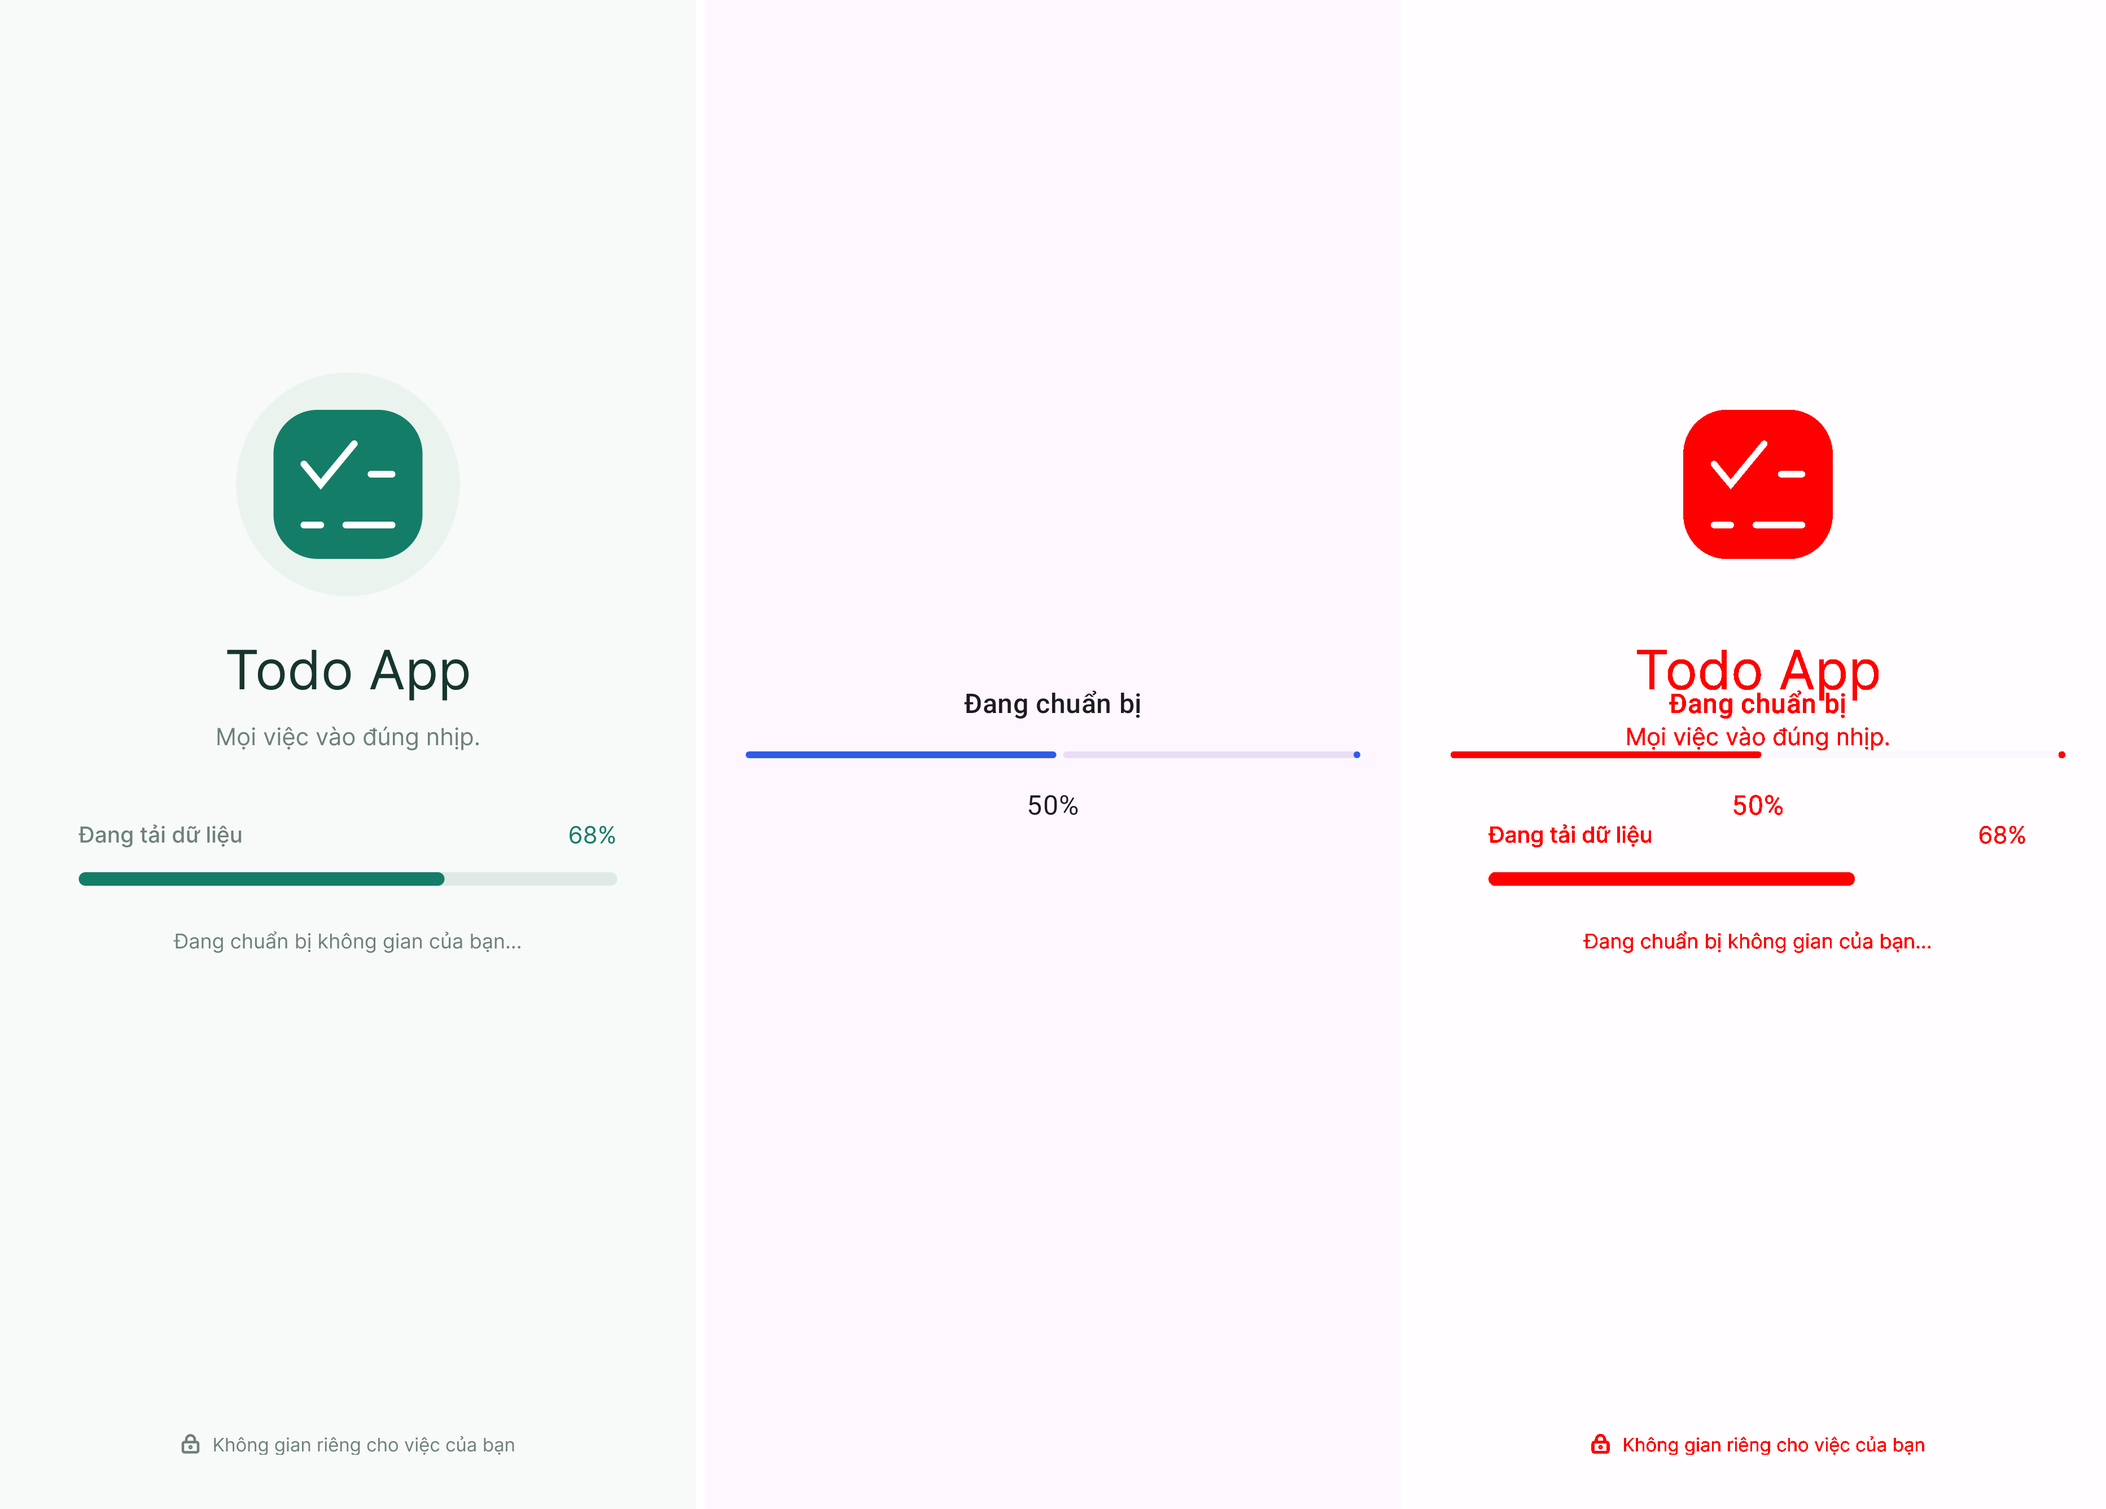
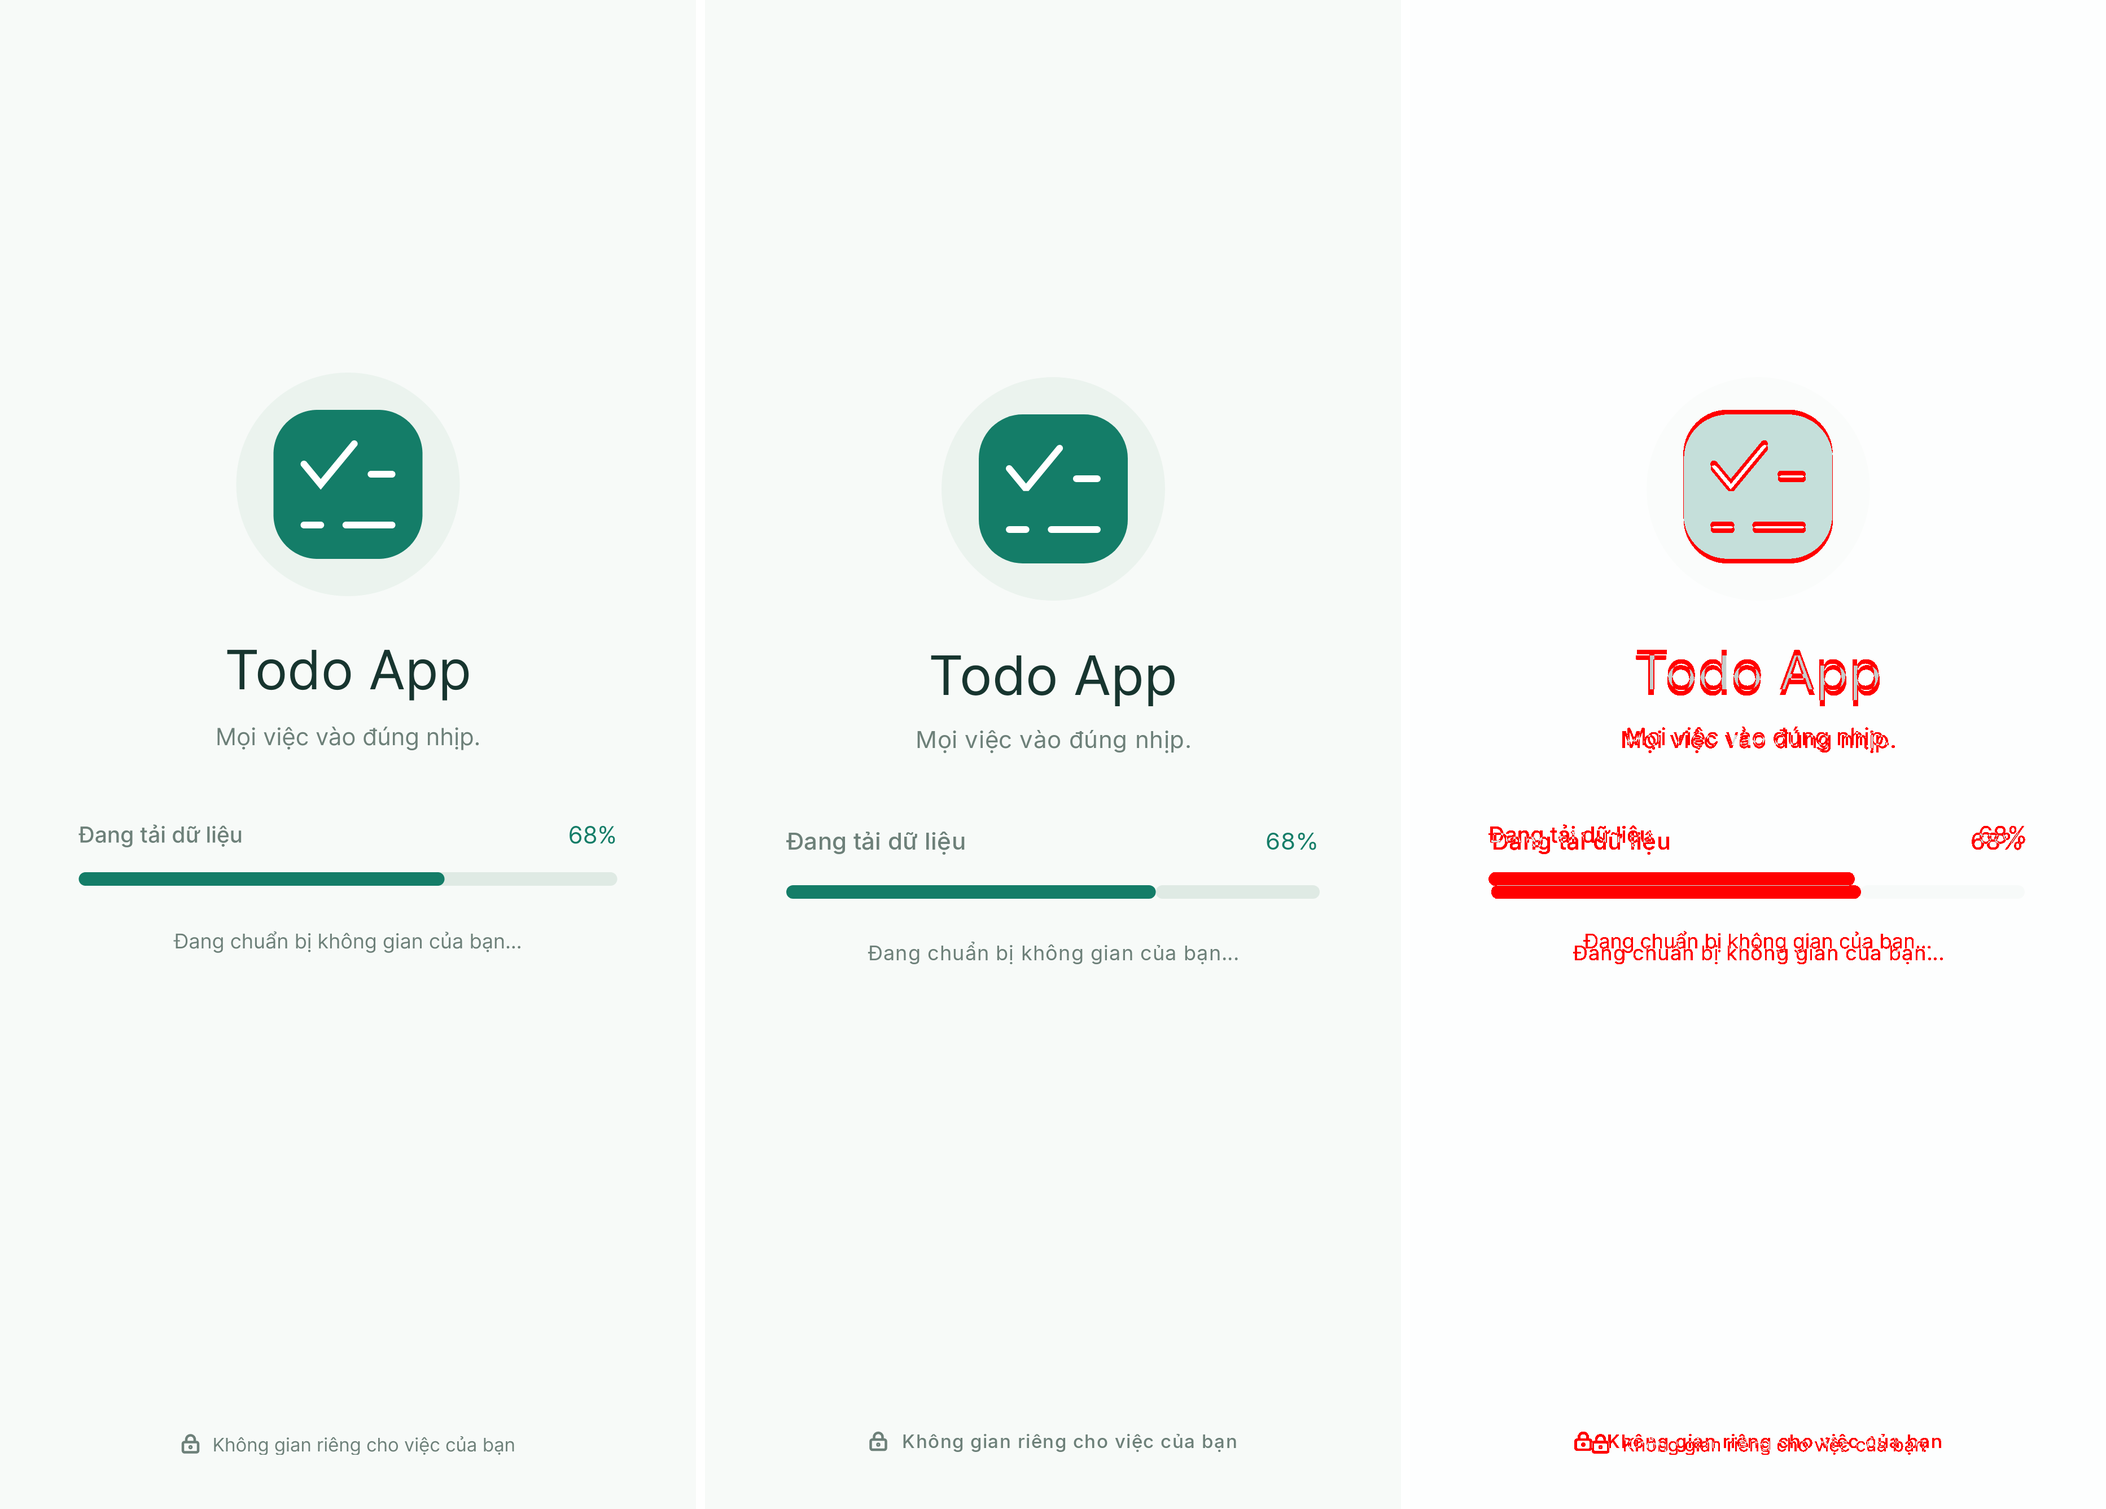
feat(T-003): màn hình loading theo thiết kế Figma
Bố cục theo design/README.md mục 3: logo, tên app, khẩu hiệu, nhãn và
phần trăm, thanh tiến trình, dòng hướng dẫn hoặc khối lỗi, chân trang.
Tên app lấy từ app đang chạy. Ba biểu tượng từ handoff/. Chữ theo bảng
chữ của thiết kế. Ghi lại ảnh chuẩn, thêm failed_dark, ảnh so sánh của
scripts/design-compare.sh loading. LoadingScreenTest chỉ sắp lại import
theo ktlint.

Claude-Session: https://claude.ai/code/session_01FU2ieqXRDh31Cj7k87m3ru

diff --git a/feature/loading/src/main/kotlin/com/vglstudio/template/feature/loading/LoadingScreen.kt b/feature/loading/src/main/kotlin/com/vglstudio/template/feature/loading/LoadingScreen.kt
@@ -1,26 +1,40 @@
 package com.vglstudio.template.feature.loading
 
 import androidx.compose.foundation.layout.Arrangement
+import androidx.compose.foundation.layout.BoxWithConstraints
 import androidx.compose.foundation.layout.Column
+import androidx.compose.foundation.layout.Row
+import androidx.compose.foundation.layout.Spacer
 import androidx.compose.foundation.layout.fillMaxSize
 import androidx.compose.foundation.layout.fillMaxWidth
+import androidx.compose.foundation.layout.height
 import androidx.compose.foundation.layout.padding
-import androidx.compose.material3.LinearProgressIndicator
+import androidx.compose.foundation.layout.size
+import androidx.compose.foundation.layout.width
+import androidx.compose.material3.Icon
 import androidx.compose.material3.MaterialTheme
 import androidx.compose.material3.Surface
 import androidx.compose.material3.Text
 import androidx.compose.runtime.Composable
 import androidx.compose.runtime.LaunchedEffect
 import androidx.compose.runtime.getValue
+import androidx.compose.runtime.remember
 import androidx.compose.runtime.rememberUpdatedState
 import androidx.compose.ui.Alignment
 import androidx.compose.ui.Modifier
+import androidx.compose.ui.platform.LocalContext
 import androidx.compose.ui.platform.testTag
+import androidx.compose.ui.res.painterResource
 import androidx.compose.ui.res.stringResource
+import androidx.compose.ui.text.style.TextAlign
 import androidx.compose.ui.tooling.preview.Preview
+import androidx.compose.ui.unit.dp
 import androidx.hilt.navigation.compose.hiltViewModel
 import androidx.lifecycle.compose.collectAsStateWithLifecycle
+import com.vglstudio.template.core.designsystem.R as DesignSystemR
+import com.vglstudio.template.core.designsystem.component.BrandLogo
 import com.vglstudio.template.core.designsystem.component.PrimaryButton
+import com.vglstudio.template.core.designsystem.component.ProgressBar
 import com.vglstudio.template.core.designsystem.theme.AppTheme
 import com.vglstudio.template.core.designsystem.theme.Spacing
 import kotlin.math.roundToInt
@@ -35,10 +49,17 @@ internal fun LoadingRoute(onFinished: () -> Unit, viewModel: LoadingViewModel = 
         LaunchedEffect(Unit) { currentOnFinished() }
         return
     }
-    LoadingScreen(uiState = uiState, appName = "", onRetry = viewModel::onRetry)
+    // The name of the running app (app_name of :app), so the feature neither depends on :app nor hardcodes it.
+    val context = LocalContext.current
+    val appName = remember(context) { context.applicationInfo.loadLabel(context.packageManager).toString() }
+    LoadingScreen(uiState = uiState, appName = appName, onRetry = viewModel::onRetry)
 }
 
-/** Stateless screen: everything it shows comes from [uiState]. Tested on the JVM and by screenshots. */
+/**
+ * Stateless screen: everything it shows comes from [uiState]. Tested on the JVM and by screenshots.
+ * Layout follows docs/features/loading/design/README.md, section 3: the content starts at a quarter of the
+ * screen height in every state, so the logo does not move when the error block appears below the bar.
+ */
 @Composable
 internal fun LoadingScreen(
     uiState: LoadingUiState,
@@ -51,38 +72,142 @@ internal fun LoadingScreen(
         is LoadingUiState.Failed -> uiState.progress
         LoadingUiState.Finished -> 1f
     }
+    val failed = uiState is LoadingUiState.Failed
+    val colors = MaterialTheme.colorScheme
+    val typography = MaterialTheme.typography
     Surface(modifier = modifier.fillMaxSize().testTag(LoadingTestTags.SCREEN)) {
-        Column(
-            modifier = Modifier.padding(Spacing.lg),
-            verticalArrangement = Arrangement.spacedBy(Spacing.md, Alignment.CenterVertically),
-            horizontalAlignment = Alignment.CenterHorizontally,
-        ) {
-            Text(
-                text = stringResource(R.string.loading_message),
-                style = MaterialTheme.typography.titleMedium,
-            )
-            LinearProgressIndicator(
-                progress = { progress },
-                modifier = Modifier.fillMaxWidth().testTag(LoadingTestTags.PROGRESS),
-            )
-            Text(
-                text = stringResource(R.string.loading_percent, (progress * PERCENT).roundToInt()),
-                style = MaterialTheme.typography.bodyLarge,
-                modifier = Modifier.testTag(LoadingTestTags.PERCENT),
-            )
-            if (uiState is LoadingUiState.Failed) {
+        BoxWithConstraints(modifier = Modifier.fillMaxSize()) {
+            Column(
+                modifier = Modifier
+                    .fillMaxWidth()
+                    .padding(top = maxHeight * CONTENT_TOP_FRACTION)
+                    .padding(horizontal = Spacing.xl + Spacing.md),
+                horizontalAlignment = Alignment.CenterHorizontally,
+            ) {
+                BrandLogo()
+                Spacer(modifier = Modifier.height(Spacing.lg))
                 Text(
-                    text = stringResource(R.string.loading_error),
-                    color = MaterialTheme.colorScheme.error,
-                    modifier = Modifier.testTag(LoadingTestTags.ERROR),
+                    text = appName,
+                    style = typography.headlineLarge,
+                    color = colors.onSurface,
+                    textAlign = TextAlign.Center,
+                    modifier = Modifier.testTag(LoadingTestTags.APP_NAME),
                 )
-                PrimaryButton(text = stringResource(R.string.loading_retry), onClick = onRetry)
+                Spacer(modifier = Modifier.height(Spacing.sm))
+                Text(
+                    text = stringResource(DesignSystemR.string.brand_tagline),
+                    style = typography.bodyMedium,
+                    color = colors.onSurfaceVariant,
+                    textAlign = TextAlign.Center,
+                )
+                Spacer(modifier = Modifier.height(Spacing.xl + Spacing.sm))
+                Row(
+                    modifier = Modifier.fillMaxWidth(),
+                    horizontalArrangement = Arrangement.SpaceBetween,
+                    verticalAlignment = Alignment.CenterVertically,
+                ) {
+                    Text(
+                        text = stringResource(if (failed) R.string.loading_status_failed else R.string.loading_status),
+                        style = typography.labelLarge,
+                        color = if (failed) colors.error else colors.onSurfaceVariant,
+                    )
+                    Text(
+                        text = stringResource(R.string.loading_percent, (progress * PERCENT).roundToInt()),
+                        style = typography.bodyMedium,
+                        color = if (failed) colors.error else colors.primary,
+                        modifier = Modifier.testTag(LoadingTestTags.PERCENT),
+                    )
+                }
+                Spacer(modifier = Modifier.height(Spacing.md))
+                if (failed) {
+                    ProgressBar(
+                        progress = { progress },
+                        modifier = Modifier.testTag(LoadingTestTags.PROGRESS),
+                        color = colors.error,
+                        trackColor = colors.errorContainer,
+                    )
+                    Spacer(modifier = Modifier.height(Spacing.lg + Spacing.xs))
+                    LoadingError(onRetry = onRetry)
+                } else {
+                    ProgressBar(progress = { progress }, modifier = Modifier.testTag(LoadingTestTags.PROGRESS))
+                    Spacer(modifier = Modifier.height(Spacing.lg))
+                    Text(
+                        text = stringResource(R.string.loading_guidance),
+                        style = typography.bodySmall,
+                        color = colors.onSurfaceVariant,
+                        textAlign = TextAlign.Center,
+                    )
+                }
             }
+            LoadingFooter(modifier = Modifier.align(Alignment.BottomCenter).padding(bottom = Spacing.xl))
         }
     }
 }
 
+/** Error block below the progress bar: title with an alert icon, guidance, and the retry button. */
+@Composable
+private fun LoadingError(onRetry: () -> Unit) {
+    val colors = MaterialTheme.colorScheme
+    Column(
+        modifier = Modifier.fillMaxWidth().testTag(LoadingTestTags.ERROR),
+        verticalArrangement = Arrangement.spacedBy(Spacing.sm + Spacing.xs),
+        horizontalAlignment = Alignment.CenterHorizontally,
+    ) {
+        Row(verticalAlignment = Alignment.CenterVertically) {
+            Icon(
+                painter = painterResource(R.drawable.ic_loading_alert),
+                contentDescription = null,
+                tint = colors.error,
+                modifier = Modifier.size(ALERT_ICON_SIZE),
+            )
+            Spacer(modifier = Modifier.width(Spacing.sm))
+            Text(
+                text = stringResource(R.string.loading_error_title),
+                style = MaterialTheme.typography.titleMedium,
+                color = colors.onSurface,
+            )
+        }
+        Text(
+            text = stringResource(R.string.loading_error),
+            style = MaterialTheme.typography.bodyMedium,
+            color = colors.onSurfaceVariant,
+            textAlign = TextAlign.Center,
+        )
+        PrimaryButton(
+            text = stringResource(R.string.loading_retry),
+            onClick = onRetry,
+            modifier = Modifier.fillMaxWidth().testTag(LoadingTestTags.RETRY),
+            icon = painterResource(R.drawable.ic_loading_retry),
+        )
+    }
+}
+
+/** Footer pinned to the bottom of the screen: lock icon and privacy line. */
+@Composable
+private fun LoadingFooter(modifier: Modifier = Modifier) {
+    val color = MaterialTheme.colorScheme.onSurfaceVariant
+    Row(modifier = modifier, verticalAlignment = Alignment.CenterVertically) {
+        Icon(
+            painter = painterResource(R.drawable.ic_loading_lock),
+            contentDescription = null,
+            tint = color,
+            modifier = Modifier.size(LOCK_ICON_SIZE),
+        )
+        Spacer(modifier = Modifier.width(Spacing.sm))
+        Text(
+            text = stringResource(R.string.loading_footer),
+            style = MaterialTheme.typography.labelSmall,
+            color = color,
+        )
+    }
+}
+
 private const val PERCENT = 100
+
+// The content starts at about a quarter of the screen height (design: 220 of 891).
+private const val CONTENT_TOP_FRACTION = 0.25f
+private val ALERT_ICON_SIZE = 18.dp
+private val LOCK_ICON_SIZE = 12.dp
 
 internal object LoadingTestTags {
     const val SCREEN = "loading_screen"
@@ -93,10 +218,21 @@ internal object LoadingTestTags {
     const val RETRY = "loading_retry"
 }
 
+// Sample app name of the design, for previews only.
+private const val PREVIEW_APP_NAME = "Todo App"
+
 @Preview
 @Composable
 private fun LoadingScreenPreview() {
     AppTheme {
-        LoadingScreen(uiState = LoadingUiState.InProgress(0.5f), appName = "", onRetry = {})
+        LoadingScreen(uiState = LoadingUiState.InProgress(0.68f), appName = PREVIEW_APP_NAME, onRetry = {})
+    }
+}
+
+@Preview
+@Composable
+private fun LoadingScreenFailedPreview() {
+    AppTheme {
+        LoadingScreen(uiState = LoadingUiState.Failed(0.68f), appName = PREVIEW_APP_NAME, onRetry = {})
     }
 }

diff --git a/feature/loading/src/test/kotlin/com/vglstudio/template/feature/loading/LoadingScreenTest.kt b/feature/loading/src/test/kotlin/com/vglstudio/template/feature/loading/LoadingScreenTest.kt
@@ -14,6 +14,7 @@ import androidx.compose.ui.test.performClick
 import androidx.compose.ui.unit.dp
 import androidx.test.core.app.ApplicationProvider
 import androidx.test.ext.junit.runners.AndroidJUnit4
+import com.vglstudio.template.core.designsystem.R as DesignSystemR
 import com.vglstudio.template.core.designsystem.theme.AppTheme
 import org.junit.Assert.assertEquals
 import org.junit.Rule
@@ -21,7 +22,6 @@ import org.junit.Test
 import org.junit.runner.RunWith
 import org.robolectric.annotation.Config
 import org.robolectric.annotation.GraphicsMode
-import com.vglstudio.template.core.designsystem.R as DesignSystemR
 
 /**
  * UI behaviour of the stateless screen, run on the JVM with Robolectric (no emulator needed).

diff --git a/docs/features/loading/design/README.md b/docs/features/loading/design/README.md
@@ -134,3 +134,14 @@ Không có.
 | LoadingScreen_progress_light | 3.5% |
 
 Hai màn hình khác hẳn nhau (màu, phông, logo, bố cục) mà tỷ lệ chỉ vài phần trăm, vì phần lớn ảnh là nền. Tỷ lệ chỉ để so giữa các lần chạy; độ giống thiết kế do người và rà soát độc lập đánh giá trên ảnh ghép.
+
+**Sau T-003 (2026-10-17, RUN-20261017-01):**
+
+| Màn hình | Điểm ảnh khác |
+| --- | --- |
+| LoadingScreen_failed_dark | 5.6% |
+| LoadingScreen_failed_light | 5.2% |
+| LoadingScreen_progress_dark | 2.5% |
+| LoadingScreen_progress_light | 2.5% |
+
+Nhận xét của rà soát độc lập (0 chặn): bốn trạng thái (đang tải, lỗi, sáng, tối) đúng thứ tự thành phần, bảng chữ và vai trò màu của thiết kế; logo giữ nguyên vị trí giữa hai trạng thái, không có chữ bị cắt hay tràn ở khung 411 x 891. Các phần phía dưới lệch dần xuống so với thiết kế, nhiều nhất khoảng 10 dp ở nút "Thử lại", do chiều cao dòng của kiểu chữ và khoảng cách làm tròn về token; mỗi phần lệch đều nằm trong mục 6, chỉ tổng cộng dồn vượt một bước lưới 4 dp. Chữ ở chân trang và lời hướng dẫn khi lỗi rộng hơn một chút do khoảng cách chữ của kiểu chữ hệ thống, số dòng không đổi.

diff --git a/docs/features/loading/design/review/summary.md b/docs/features/loading/design/review/summary.md
@@ -1,6 +1,6 @@
 | Màn hình | Điểm ảnh khác | Ảnh so sánh (thiết kế, thật, khác biệt) |
 | --- | --- | --- |
-| LoadingScreen_failed_dark | thiếu ảnh chuẩn screenshot | |
-| LoadingScreen_failed_light | 9.7% | `LoadingScreen_failed_light_compare.png` |
-| LoadingScreen_progress_dark | 4.0% | `LoadingScreen_progress_dark_compare.png` |
-| LoadingScreen_progress_light | 3.5% | `LoadingScreen_progress_light_compare.png` |
+| LoadingScreen_failed_dark | 5.6% | `LoadingScreen_failed_dark_compare.png` |
+| LoadingScreen_failed_light | 5.2% | `LoadingScreen_failed_light_compare.png` |
+| LoadingScreen_progress_dark | 2.5% | `LoadingScreen_progress_dark_compare.png` |
+| LoadingScreen_progress_light | 2.5% | `LoadingScreen_progress_light_compare.png` |
